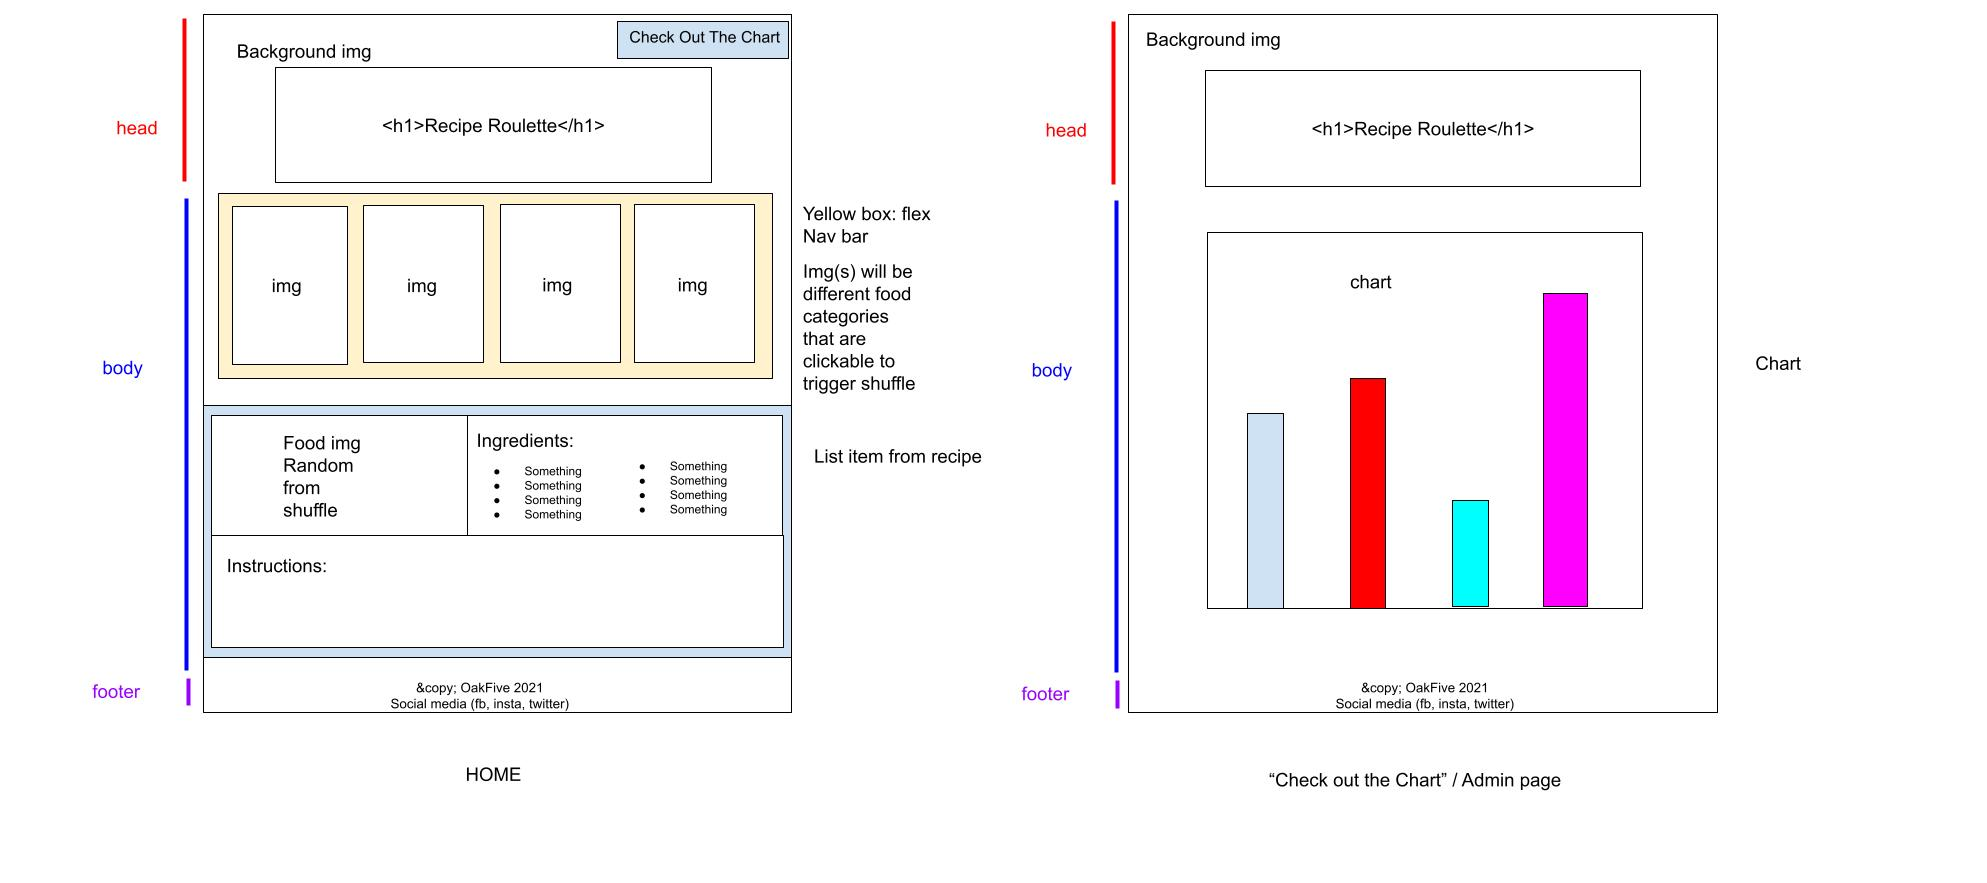
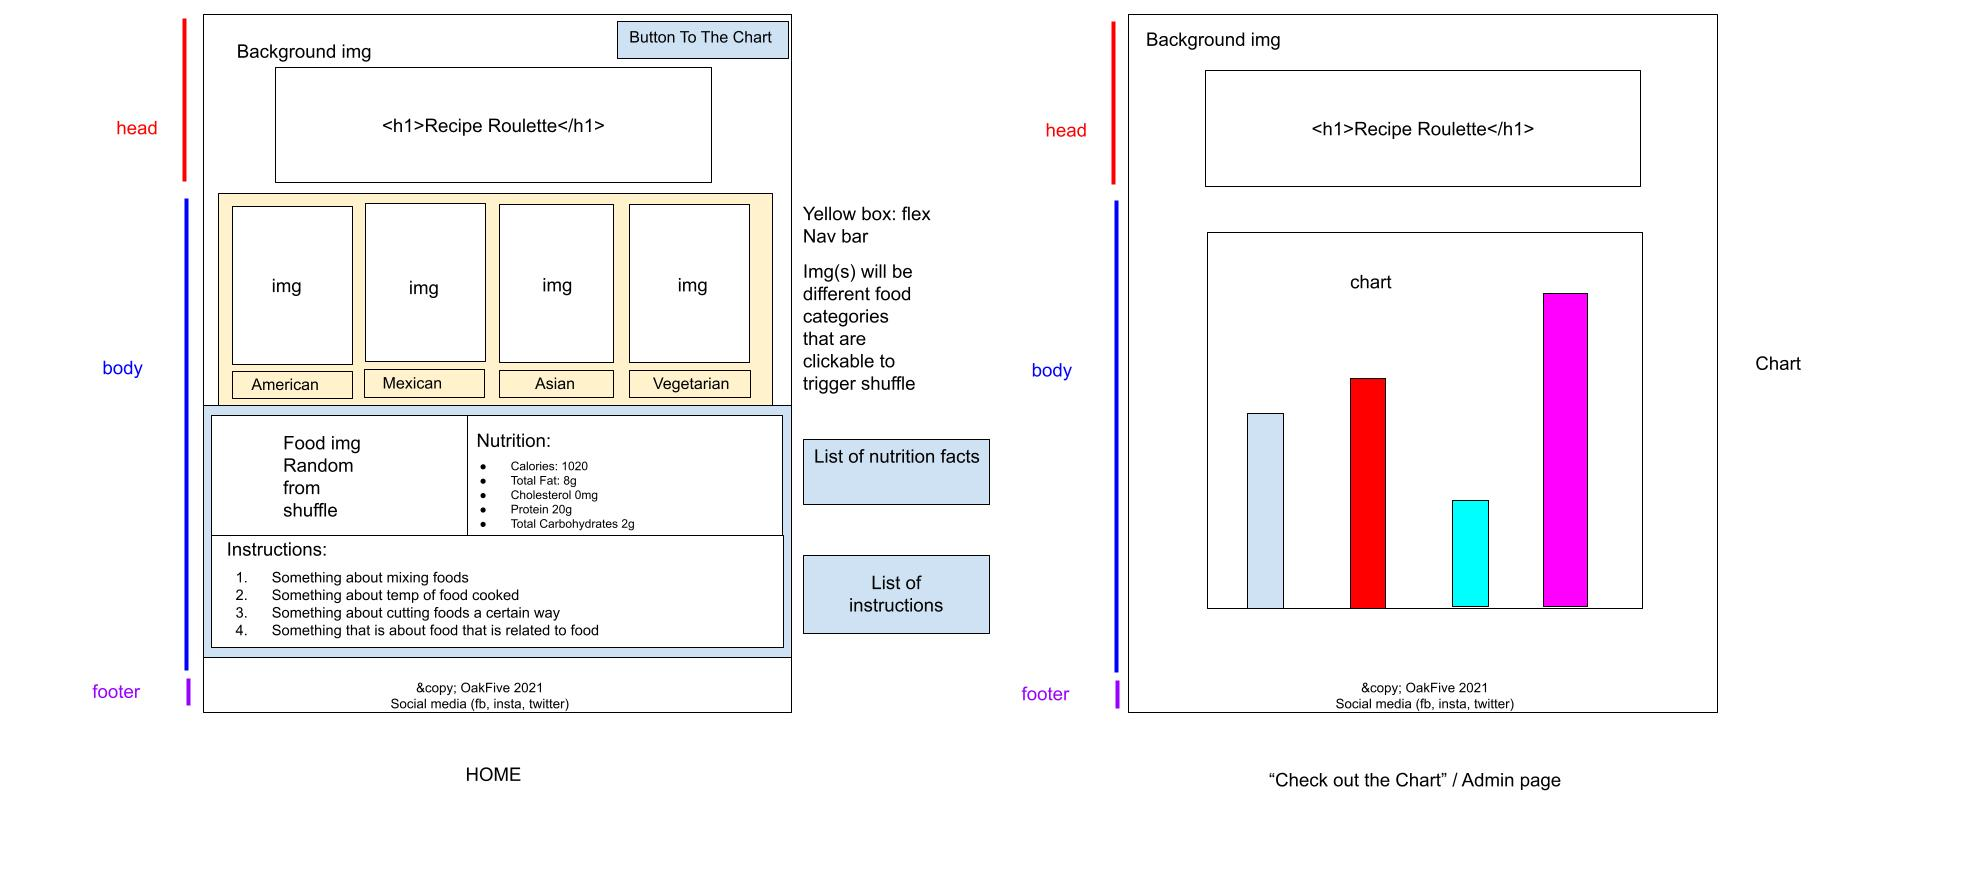
updated wireframe and added domainmodel

diff --git a/README.md b/README.md
@@ -9,3 +9,5 @@ Elijah Prom, Jessi Velazquez, R. Mal Sweet, Simone Odegard, Daniel Dills
 [Image link](https://docs.google.com/drawings/d/12drTVfVIRcxuTuYoieGvOaehgMqFvPL2m_9P0I8xZKA/edit)
 
 ![wireframe](img/wireframe.jpg)
+
+![domainmodel](img/DomainModel.jpg)
